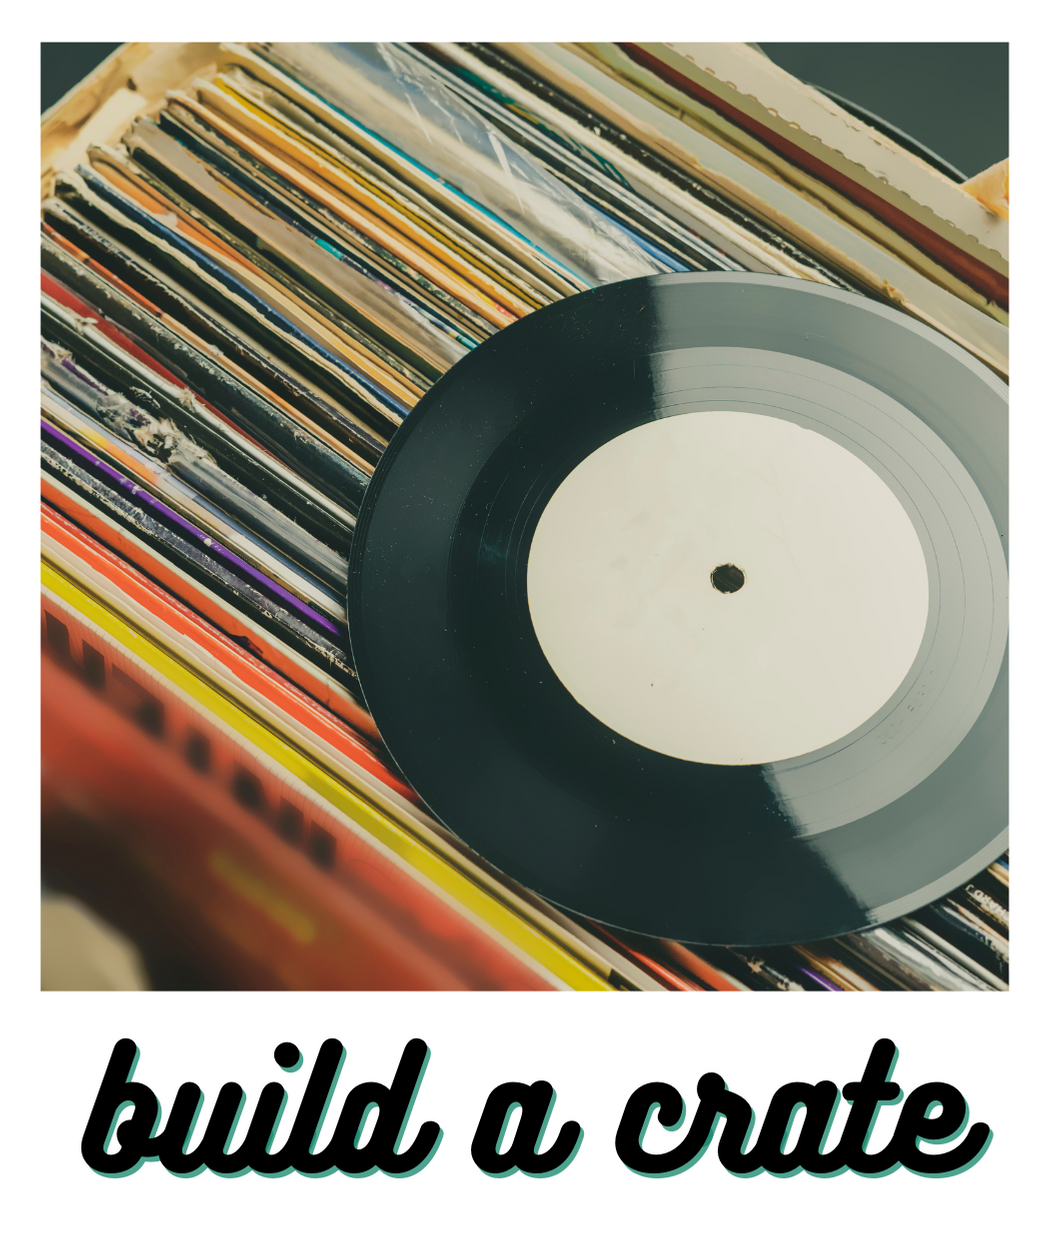
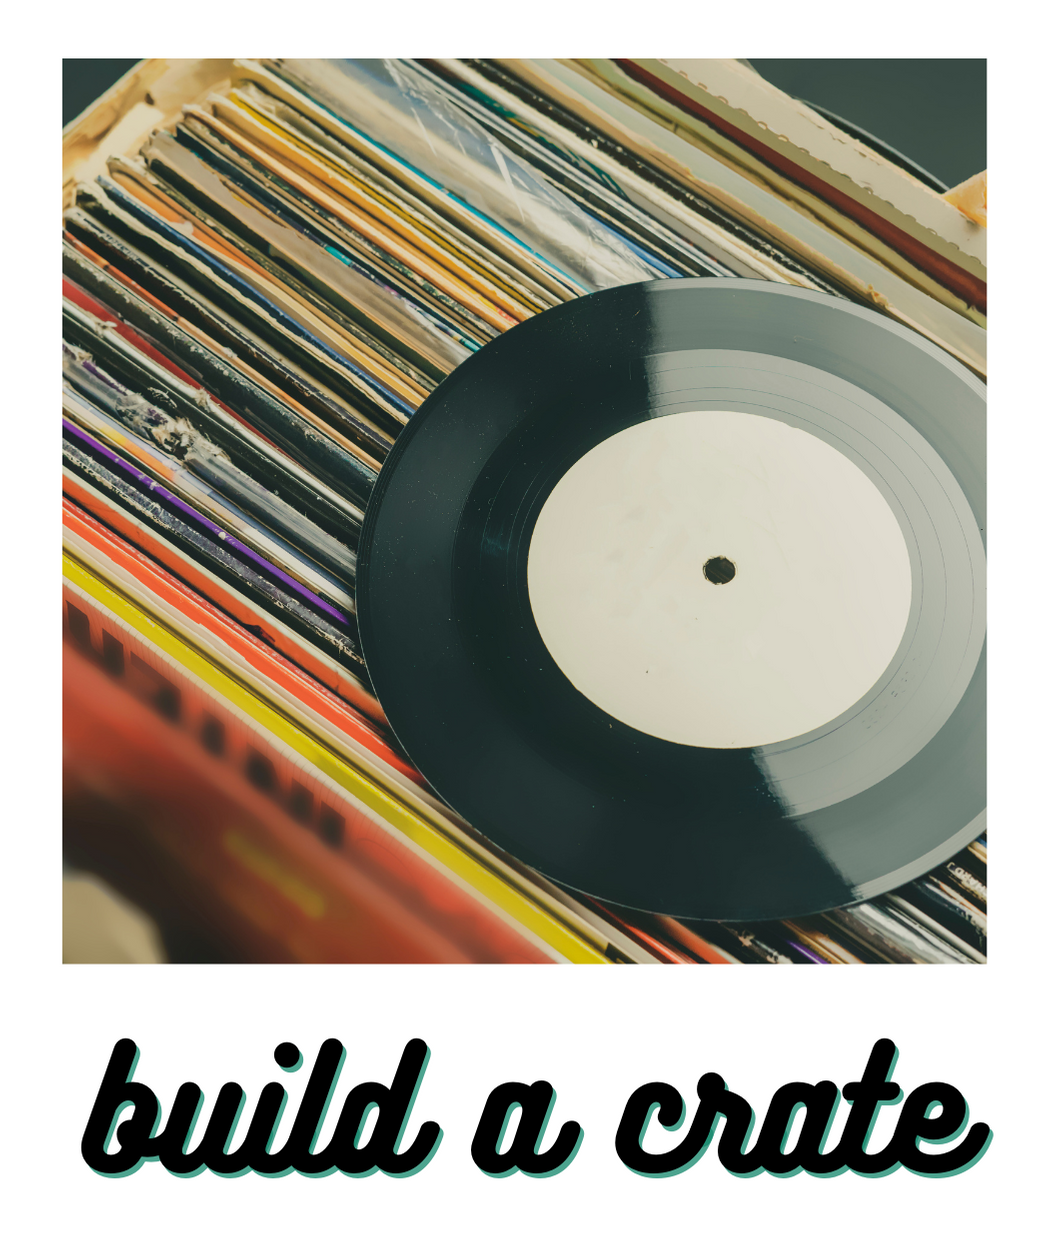
Style updates

diff --git a/public/css/style.css b/public/css/style.css
@@ -4,9 +4,13 @@ body {
     background-size: 100%;
 }
 
+#mainHeader {
+    height: 100px;
+}
+
 #reel2 {
-    height: 70px;
-    margin: 5px 10px 10px 10px;
+    height: 150px;
+    margin: 20px 10px 10px 10px;
     float: right;
     cursor: pointer;
 }
@@ -25,10 +29,39 @@ a:hover {
 }
 
 #build {
-    height: 250px;
-    margin-left: 80px;
+    height: 280px;
+    margin-left: 130px;
+    transform: rotate(20deg);
     cursor: pointer;
 }
+
+@keyframes spinning {
+    from {transform: rotate(0deg)}
+    to {transform: rotate(360deg)}
+}
+
+#build:hover {
+    animation-name: spinning;
+    animation-duration: 1s;
+    animation-iteration-count: 1;
+    animation-timing-function: ease-in-out;
+}
+
+#genre {
+    height: 280px;
+    margin: 50px 0 0 100px;
+    transform: rotate(-10deg);
+    cursor: pointer;
+}
+
+#genre:hover {
+    animation-name: spinning;
+    animation-duration: 1s;
+    animation-iteration-count: 1;
+    animation-timing-function: ease-in-out;
+}
+
+
 .hide {
     display: none;
 }

diff --git a/controllers/api/crateRoutes.js b/controllers/api/crateRoutes.js
@@ -19,4 +19,5 @@ router.get('/', async (req, res) => {
   }
 });
 
+
 module.exports = router;
